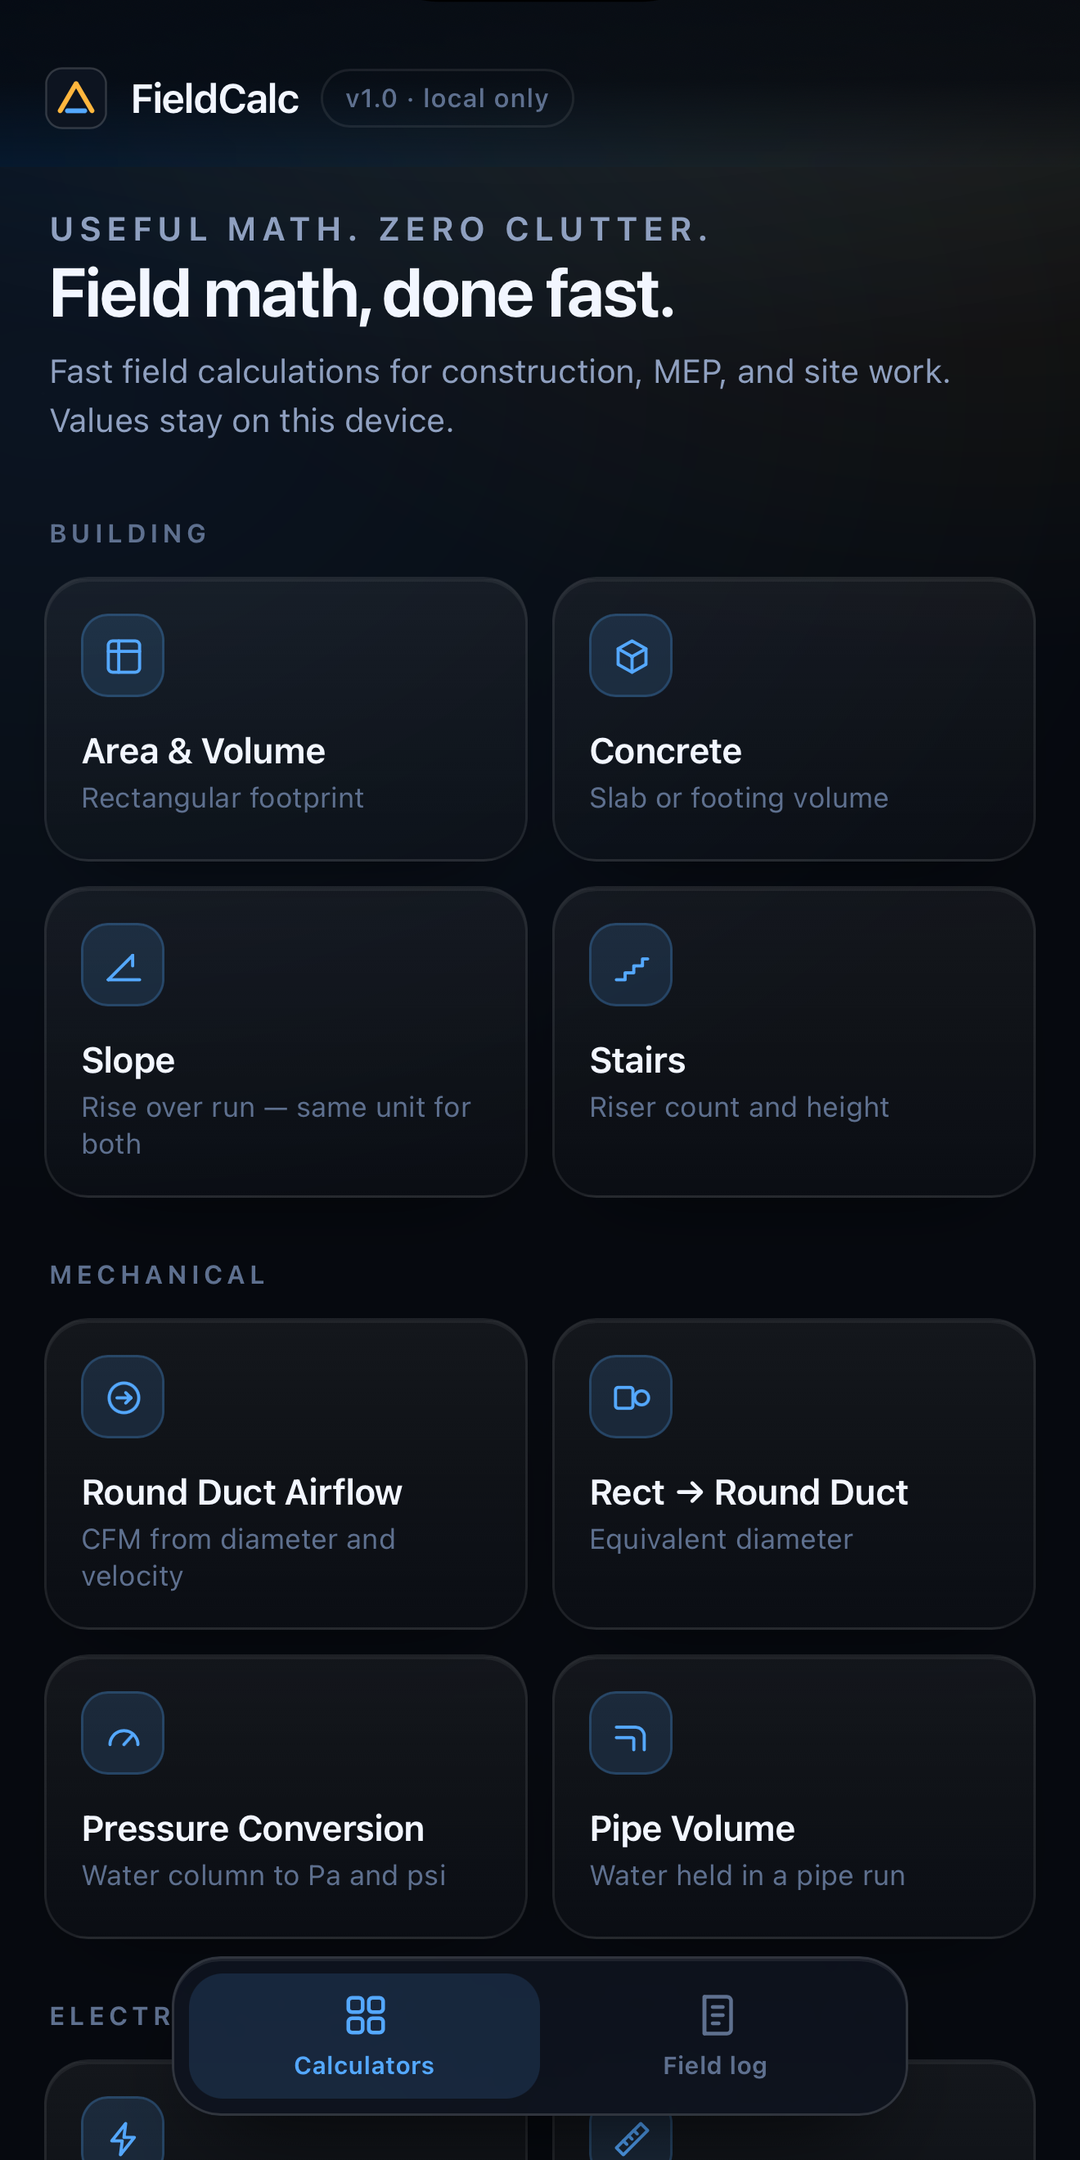
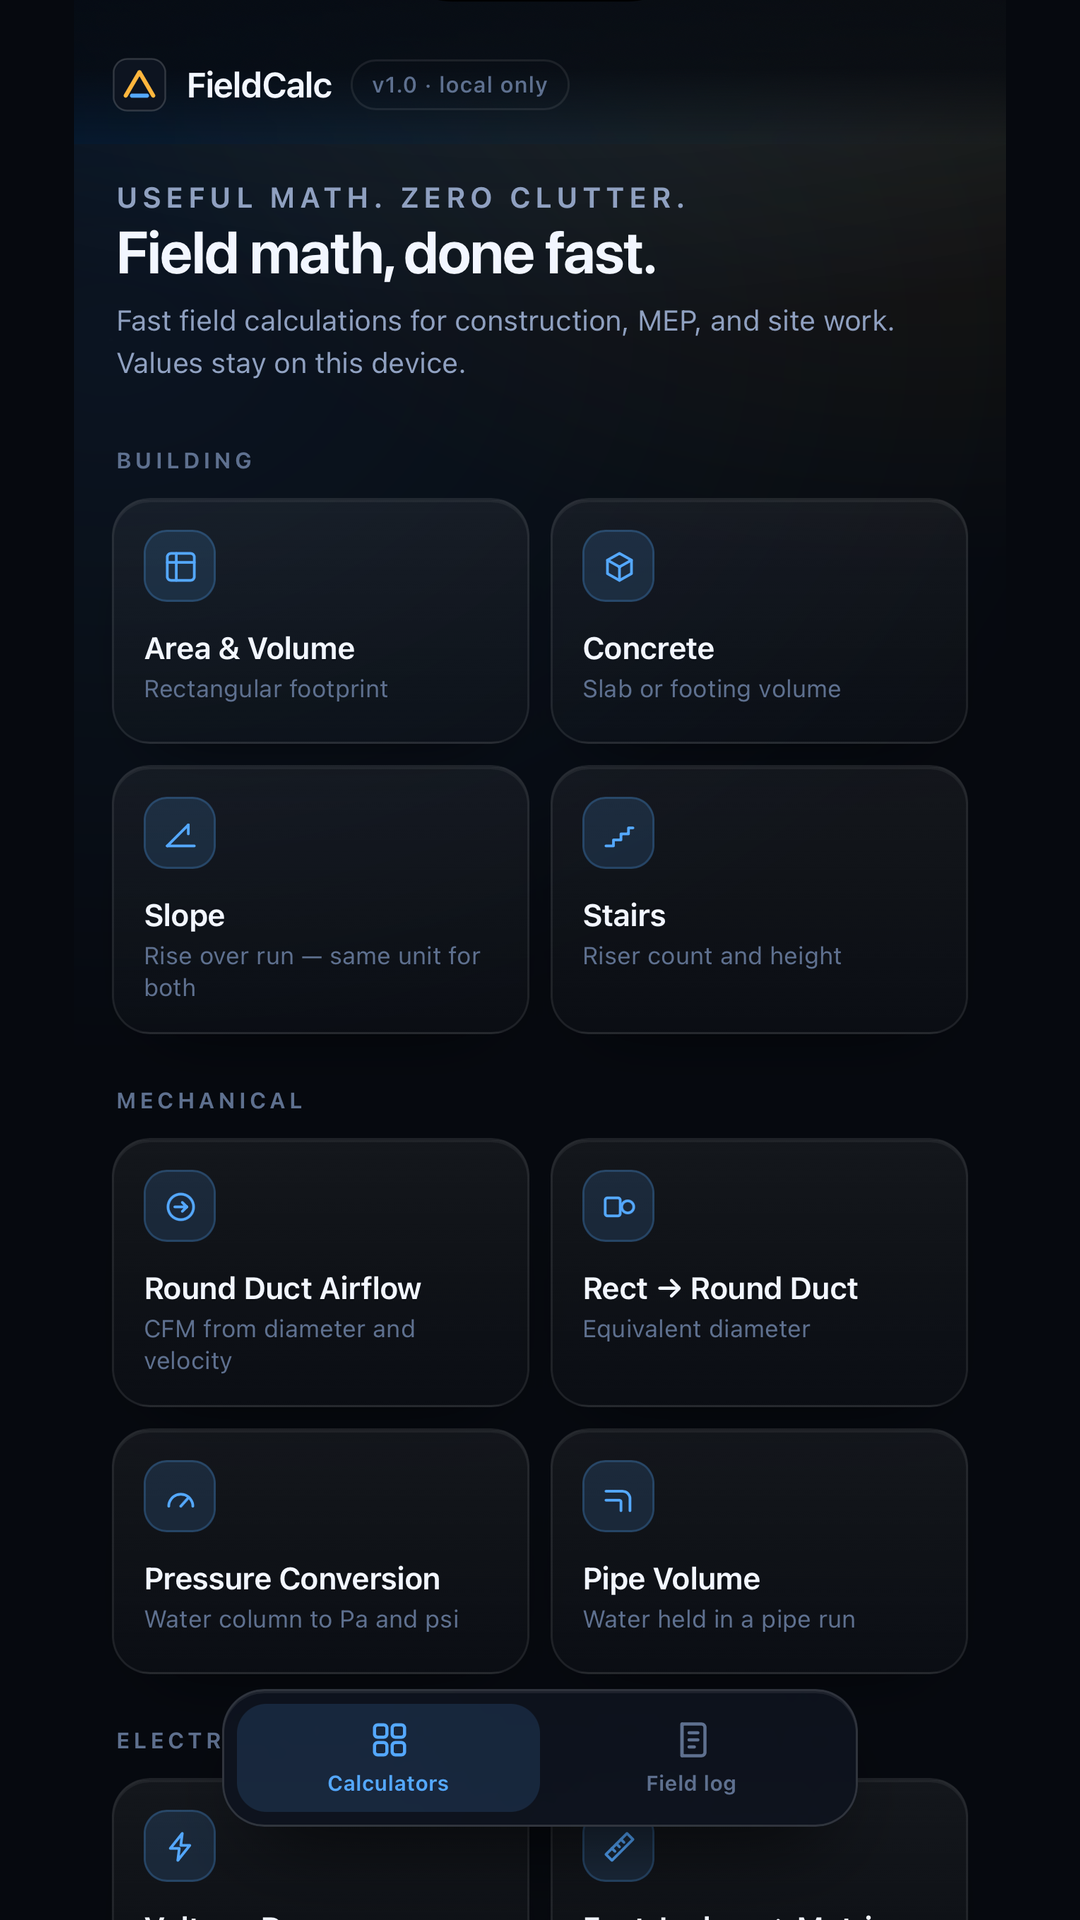
Play screenshots at exact 9:16
Play accepted 1080×2160 uploads but kept "Set up your store listing"
incomplete; its spec is 16:9 or 9:16. Rebuilt at 1080×1920 by scaling the
full screen onto the app background instead of cropping, so the tab bar
and disclaimer stay in frame.

diff --git a/store/LISTING.md b/store/LISTING.md
@@ -4,7 +4,7 @@
 Google Play: signed bundle built, Play Console app being created.
 
 Everything submitted to the App Store and Google Play, versioned with the code.
-Screenshots: `ios/screenshots/` (1206×2622) and `android/screenshots/` (1080×2160).
+Screenshots: `ios/screenshots/` (1206×2622) and `android/screenshots/` (1080×1920 — Play requires exactly 9:16).
 
 | | |
 |---|---|

diff --git a/SUBMIT-TO-APP-STORES.md b/SUBMIT-TO-APP-STORES.md
@@ -91,7 +91,7 @@ continuous days** before production access is granted.
 |---|---|
 | App icon | 512 × 512 |
 | Feature graphic | 1024 × 500 |
-| Phone screenshots | 1080 × 2160 — Play rejects anything taller than 2:1 |
+| Phone screenshots | 1080 × 1920 — exactly **9:16**; Play stores 1:2 images but leaves the listing task incomplete |
 
 ---
 
